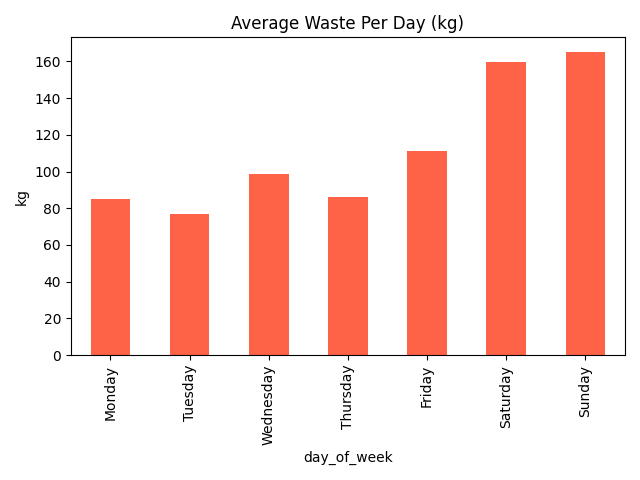
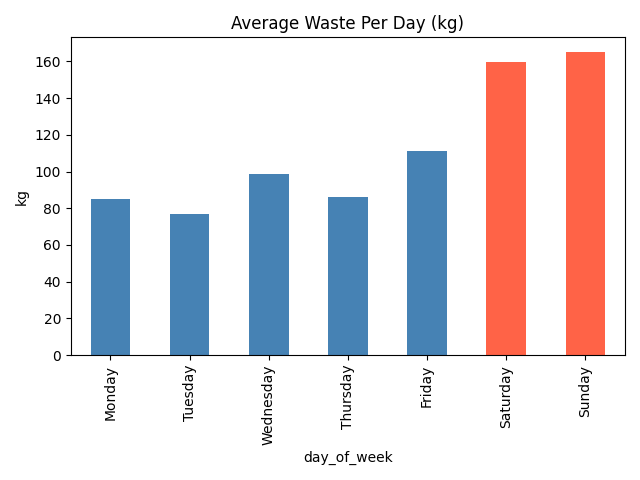
Complete food waste analysis: cleaning, analysis, recommendation, savings and charts

diff --git a/Food_waste_analysis/foodwaste.py b/Food_waste_analysis/foodwaste.py
@@ -221,40 +221,44 @@ for buffer in [1.05, 1.10, 1.15]:
     os.makedirs("charts", exist_ok=True)
 
     #---chart1: day wise waste (kg)
-    day_summary["avg_kg_per_day"].plot(kind="bar", color="tomato")
+    day_summary["avg_kg_per_day"].plot(kind="bar", color=["steelblue"]*5 + ["tomato"]*2)
     plt.title("Average Waste Per Day (kg)")
     plt.ylabel("kg")
     plt.tight_layout()
     plt.savefig("charts/1_day_kg.png")
     plt.show()
+    plt.close()
 
 
     #---chart2: day wise waste (%)
-    day_summary["avg_waste_pct"].plot(kind="bar", color="steelblue")
+    day_summary["avg_waste_pct"].plot(kind="bar", color=["green", "green", "orange", "green", "orange", "red", "red"])
     plt.title("Average Waste % by Day")
     plt.ylabel("Waste %")
     plt.tight_layout()
     plt.savefig("charts/2_day_percent.png")
     plt.show()
+    plt.close()
 
 
     #---chart3: meal wise waste (kg)
-    meal_summary["total_wasted_kg"].plot(kind="bar", color="orange")
+    meal_summary["total_wasted_kg"].plot(kind="bar", color=["gold", "orange", "mediumpurple", "seagreen"])
     plt.title("Total Waste by Meal (kg)")
     plt.ylabel("kg")
     plt.tight_layout()
     plt.savefig("charts/3_meal_kg.png")
     plt.show()
+    plt.close()
 
     #---chart4: top 10 wasted items
     top10 = item_summary["total_wasted_kg"].sort_values(ascending=False).head(10)
-    top10.plot(kind="barh", color="crimson")
+    top10.plot(kind="barh", color=["red"]*3 + ["orange"]*7)
     plt.title("Top 10 Wasted Items (kg)")
     plt.xlabel("kg")
     plt.gca().invert_yaxis()
     plt.tight_layout()
     plt.savefig("charts/4_top10_items.png")
     plt.show()
+    plt.close()
 
 
     #---chart5: weekday vs weekend
@@ -264,17 +268,19 @@ for buffer in [1.05, 1.10, 1.15]:
     plt.tight_layout()
     plt.savefig("charts/5_weekday_weekend.png")
     plt.show()
+    plt.close()
 
 
     #---chart6: day vs meal waste %
     pivot = df.pivot_table(index="day_of_week", columns="meal", values="waste_percentage", aggfunc="mean")
     pivot = pivot.reindex(day_order)[meal_order]
-    pivot.plot(kind="bar")
+    pivot.plot(kind="bar", color=["gold", "orange", "mediumpurple", "seagreen"])
     plt.title("Waste % by Day and Meal")
     plt.ylabel("Waste %")
     plt.tight_layout()
     plt.savefig("charts/6_day_meal.png")
     plt.show()
+    plt.close()
 
 
     print("6 charts saved in charts folder")
